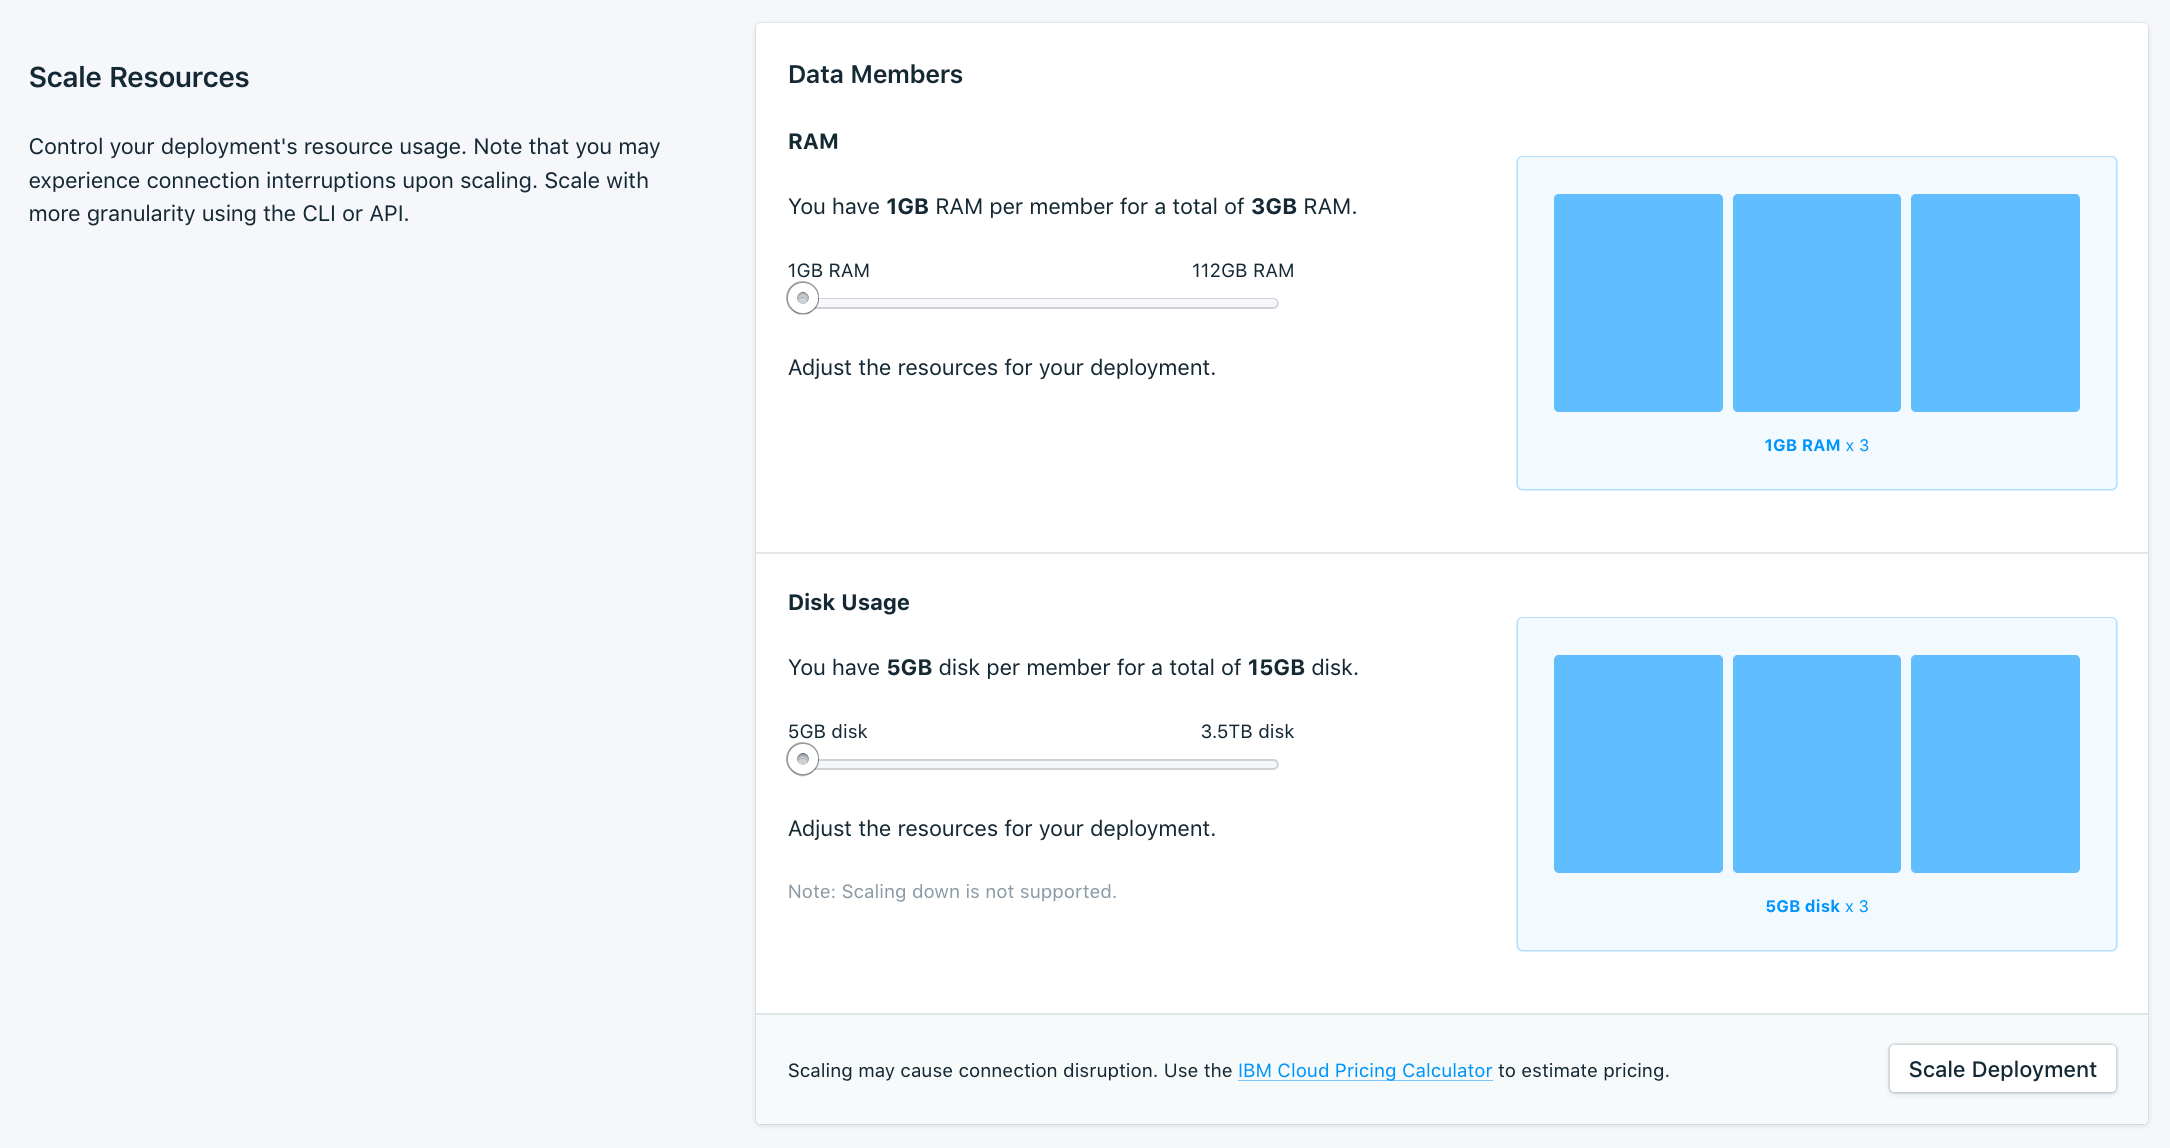
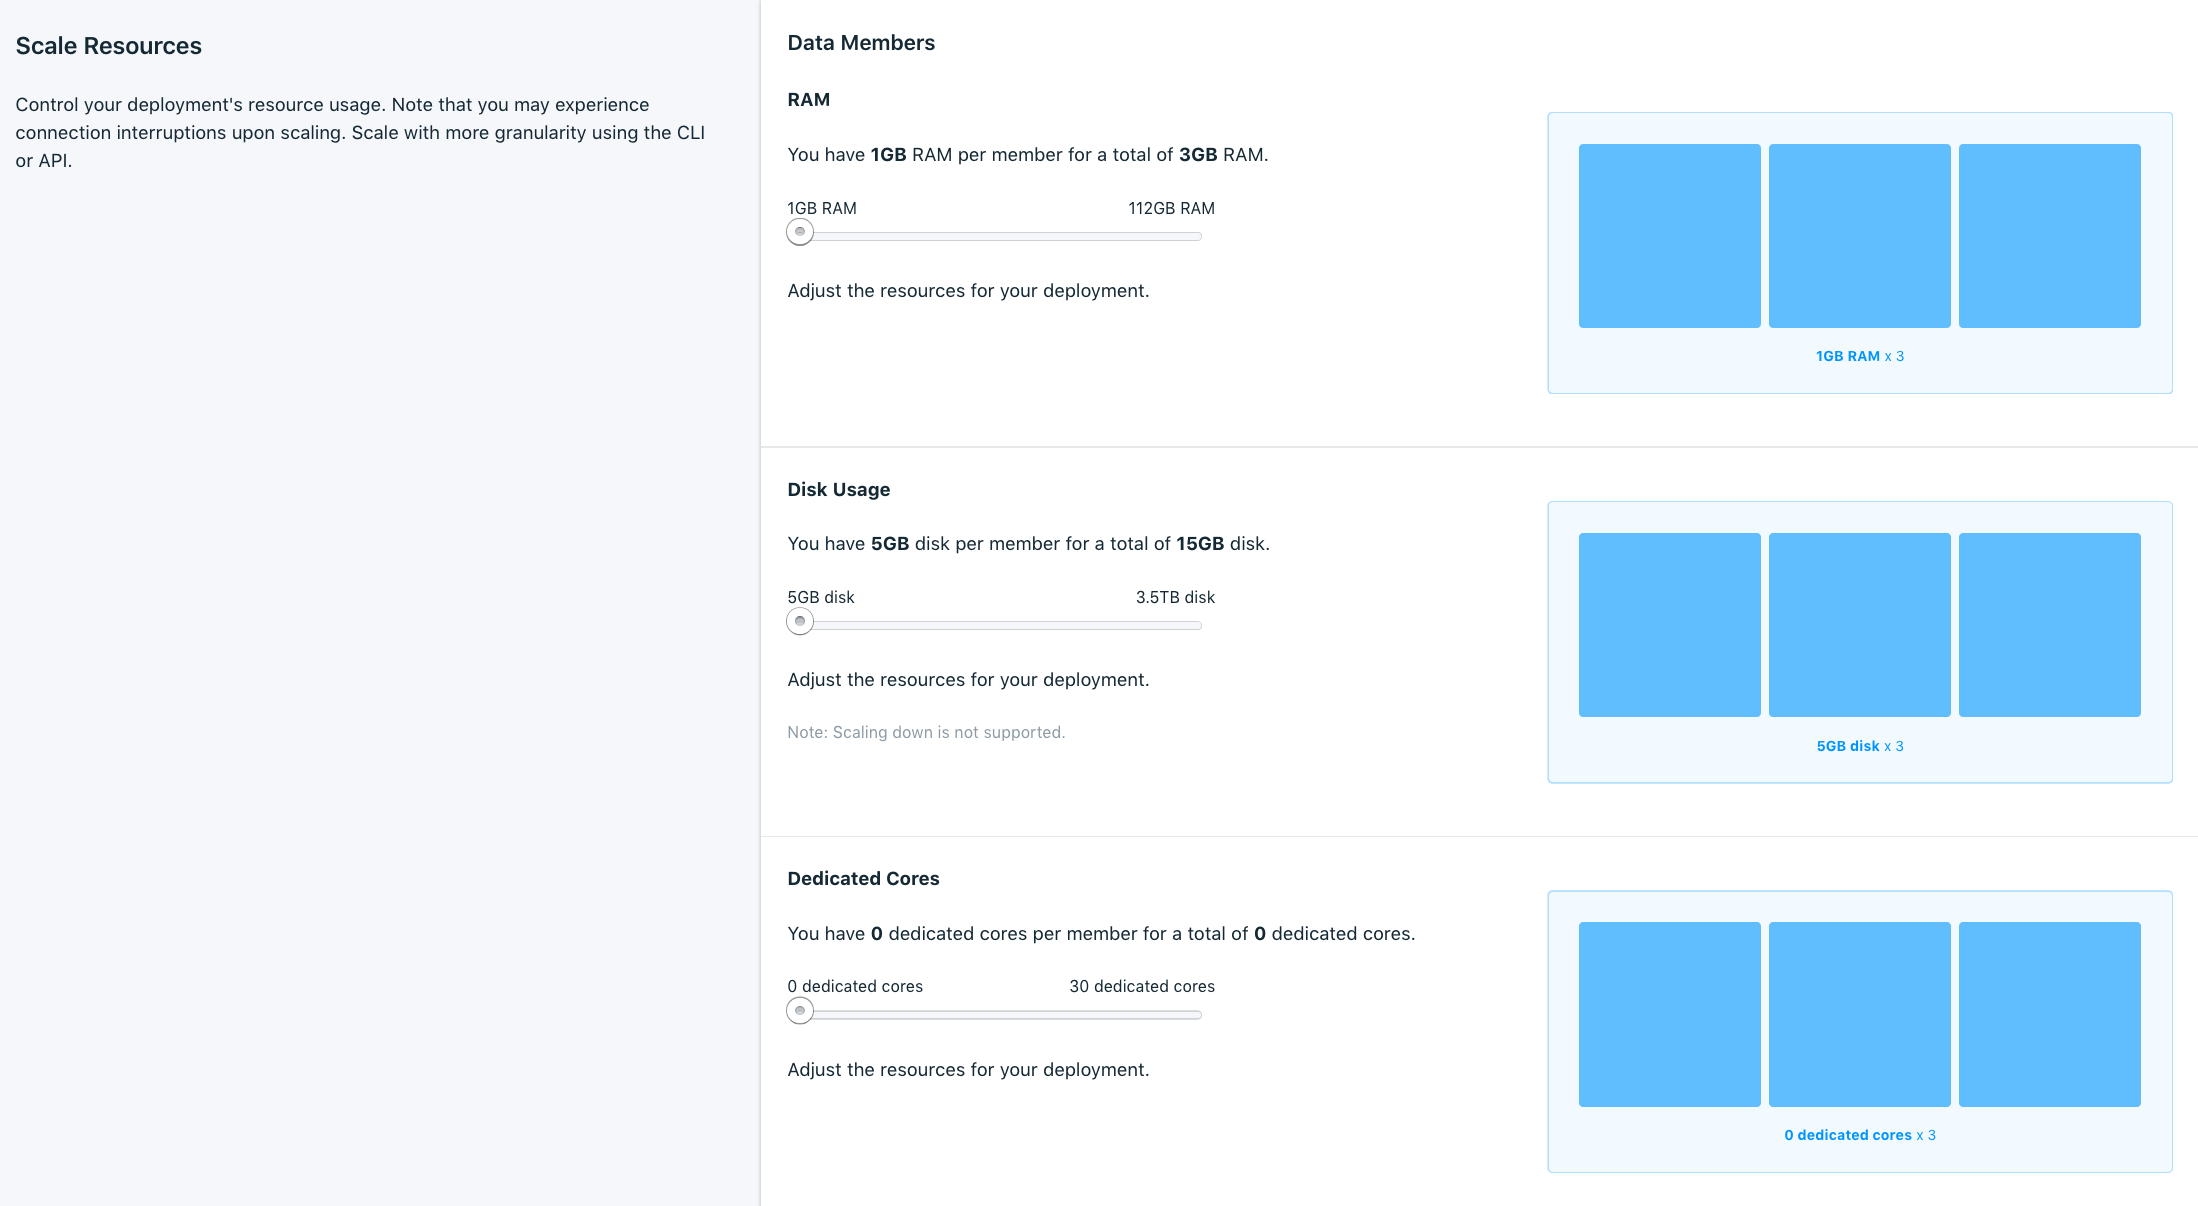
CPU Enabling/Scaling for all deployments (#26)
* initial wording for making dedicated cores more widely available

* updating scaling screenshot

* adding cli output for CPU in scaling

diff --git a/howto-resources-scaling.md b/howto-resources-scaling.md
@@ -2,7 +2,7 @@
 
 Copyright:
   years: 2019
-lastupdated: "2019-05-03"
+lastupdated: "2019-09-04"
 
 keywords: elasticsearch, databases, scaling
 
@@ -41,7 +41,10 @@ You cannot scale down storage. If your data set size has decreased, you can reco
 If you find that your queries and database activity suffer from performance issues due to a lack of memory, you can scale the amount of RAM allocated to your service. Adding memory to the total allocation adds memory to the members equally. {{site.data.keyword.databases-for-elasticsearch}} deployments have their memory allocation policy set at 50% heap and 50% system memory, so increasing the amount of RAM increases both heap and system memory.
 
 **Dedicated Cores** - 
-If you provisioned your deployment with dedicated cores, you can increase the CPU allocation to the deployment. This option is not available on deployments that were not provisioned with an initial CPU allocation. 
+You can enable or increase the CPU allocation to the deployment. With dedicated cores, your resource group is given a single-tenant host with a guaranteed minimum reserve of cpu shares. Your deployment is then allocated the number of CPUs you specify. The default of 0 dedicated cores uses compute resources on shared hosts.
+
+A few scaling operations can be more long running than others. Enabling dedicated cores moves your deployment to its own host and can take longer than just adding more cores. Similarly, drastically increasing RAM or Disk can take longer than smaller increases to account for provisioning more underlying hardware resources.
+{: .tip}
 
 ## Scaling in the UI
 
@@ -64,6 +67,13 @@ Count   3
 |   Allocation per member   1024mb
 |   Minimum                 3072mb
 |   Step Size               384mb
+|   Adjustable              true
+|
++   CPU
+|   Allocation              0
+|   Allocation per member   0
+|   Minimum                 9
+|   Step Size               3
 |   Adjustable              true
 |
 +   Disk

diff --git a/learn-pricing.md b/learn-pricing.md
@@ -48,7 +48,7 @@ For pricing estimation, use the **Add to Estimate** button on the [{{site.data.k
 
 ## Dedicated Cores Pricing
 
-When you provision, you have the option of selecting the initial CPU allocation for your deployment. With dedicated cores, your resource group is given a single-tenant host with a guaranteed minimum reserve of cpu shares. Your deployments are then allocated the number of CPUs you specify. The cost of dedicated cores is $30 per core per month, and each member gets the selected number of cores. For example, if you provision a deployment with 3 dedicated cores per member, that is a total of 9 cores, and billed at $270 per month. 
+You have the option of selecting the CPU allocation for your deployment. With dedicated cores, your resource group is given a single-tenant host with a guaranteed minimum reserve of cpu shares. Your deployments are then allocated the number of CPUs you specify. The cost of dedicated cores is $30 per core per month, and each member gets the selected number of cores. For example, if you provision a deployment with 3 dedicated cores per member, that is a total of 9 cores, and billed at $270 per month. 
 
 Dedicated cores are an optional feature. The default `Shared CPU` setting provisions your deployment on hosts with shared compute resources and incurs no additional charge.
 
